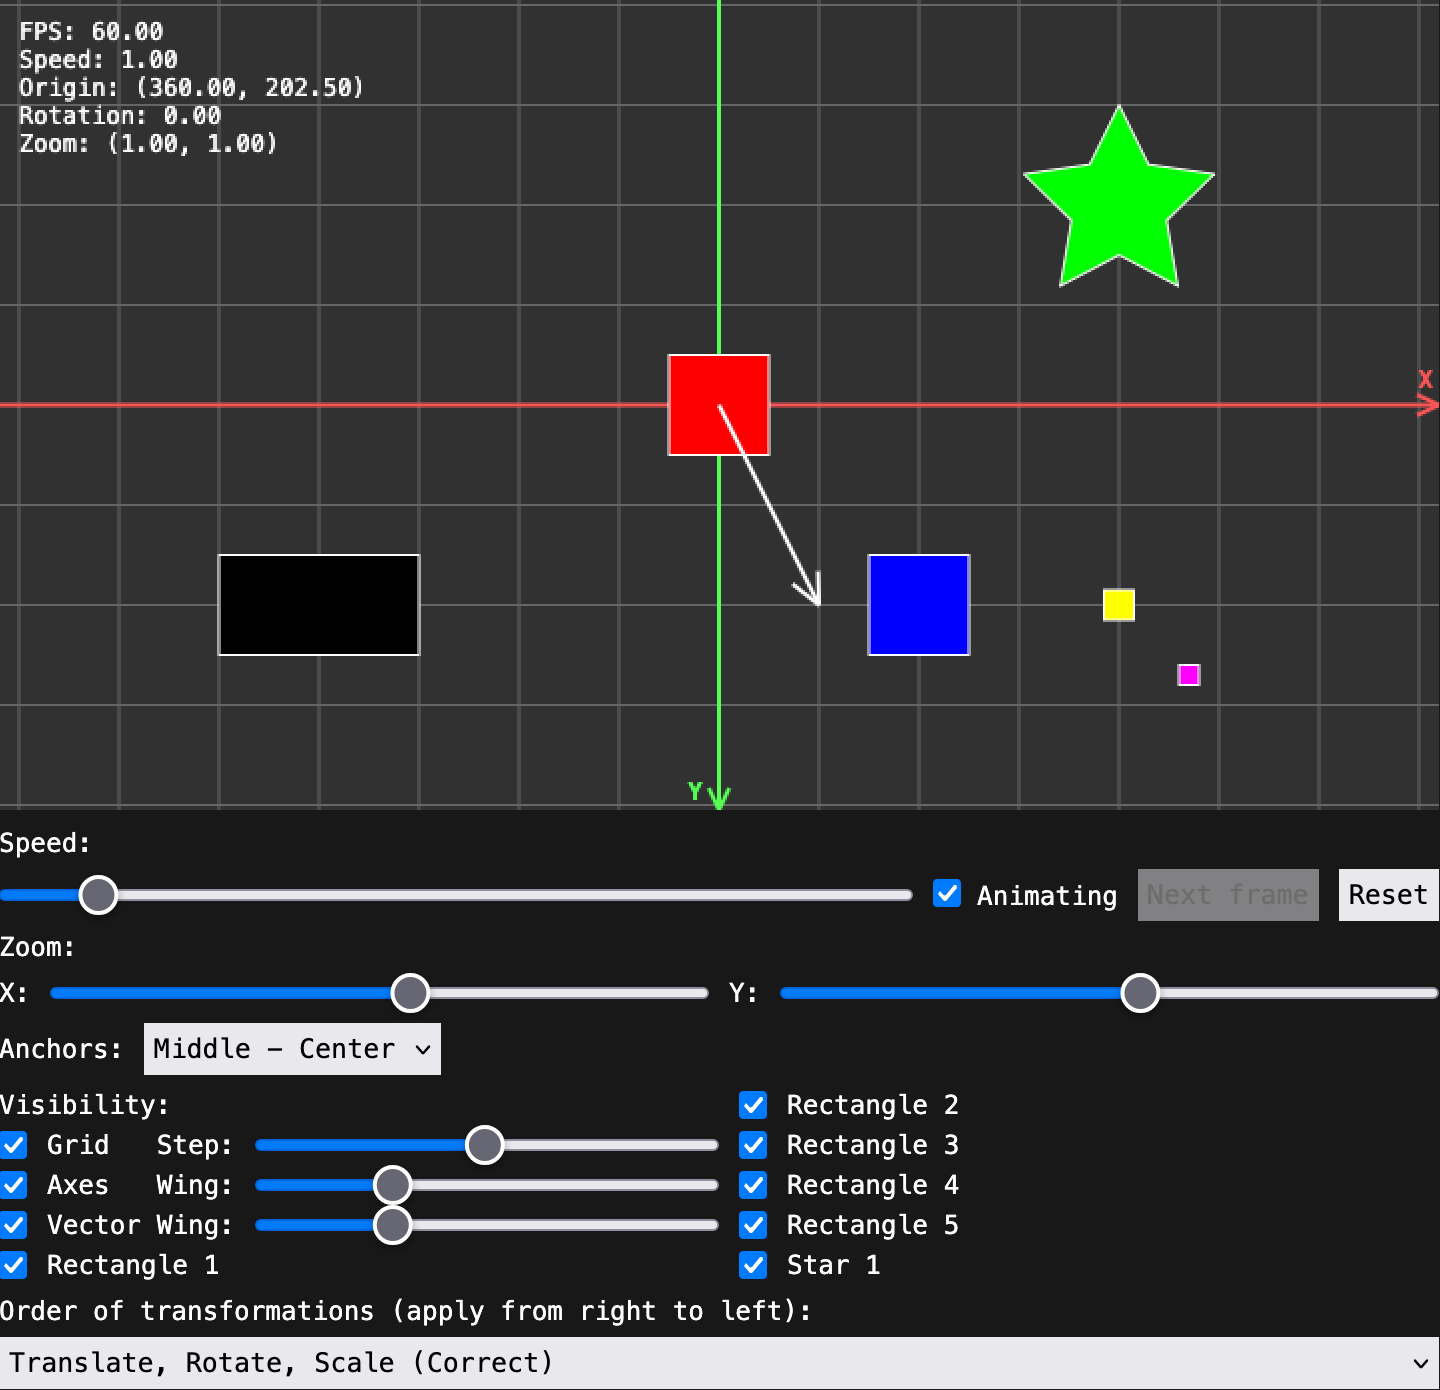
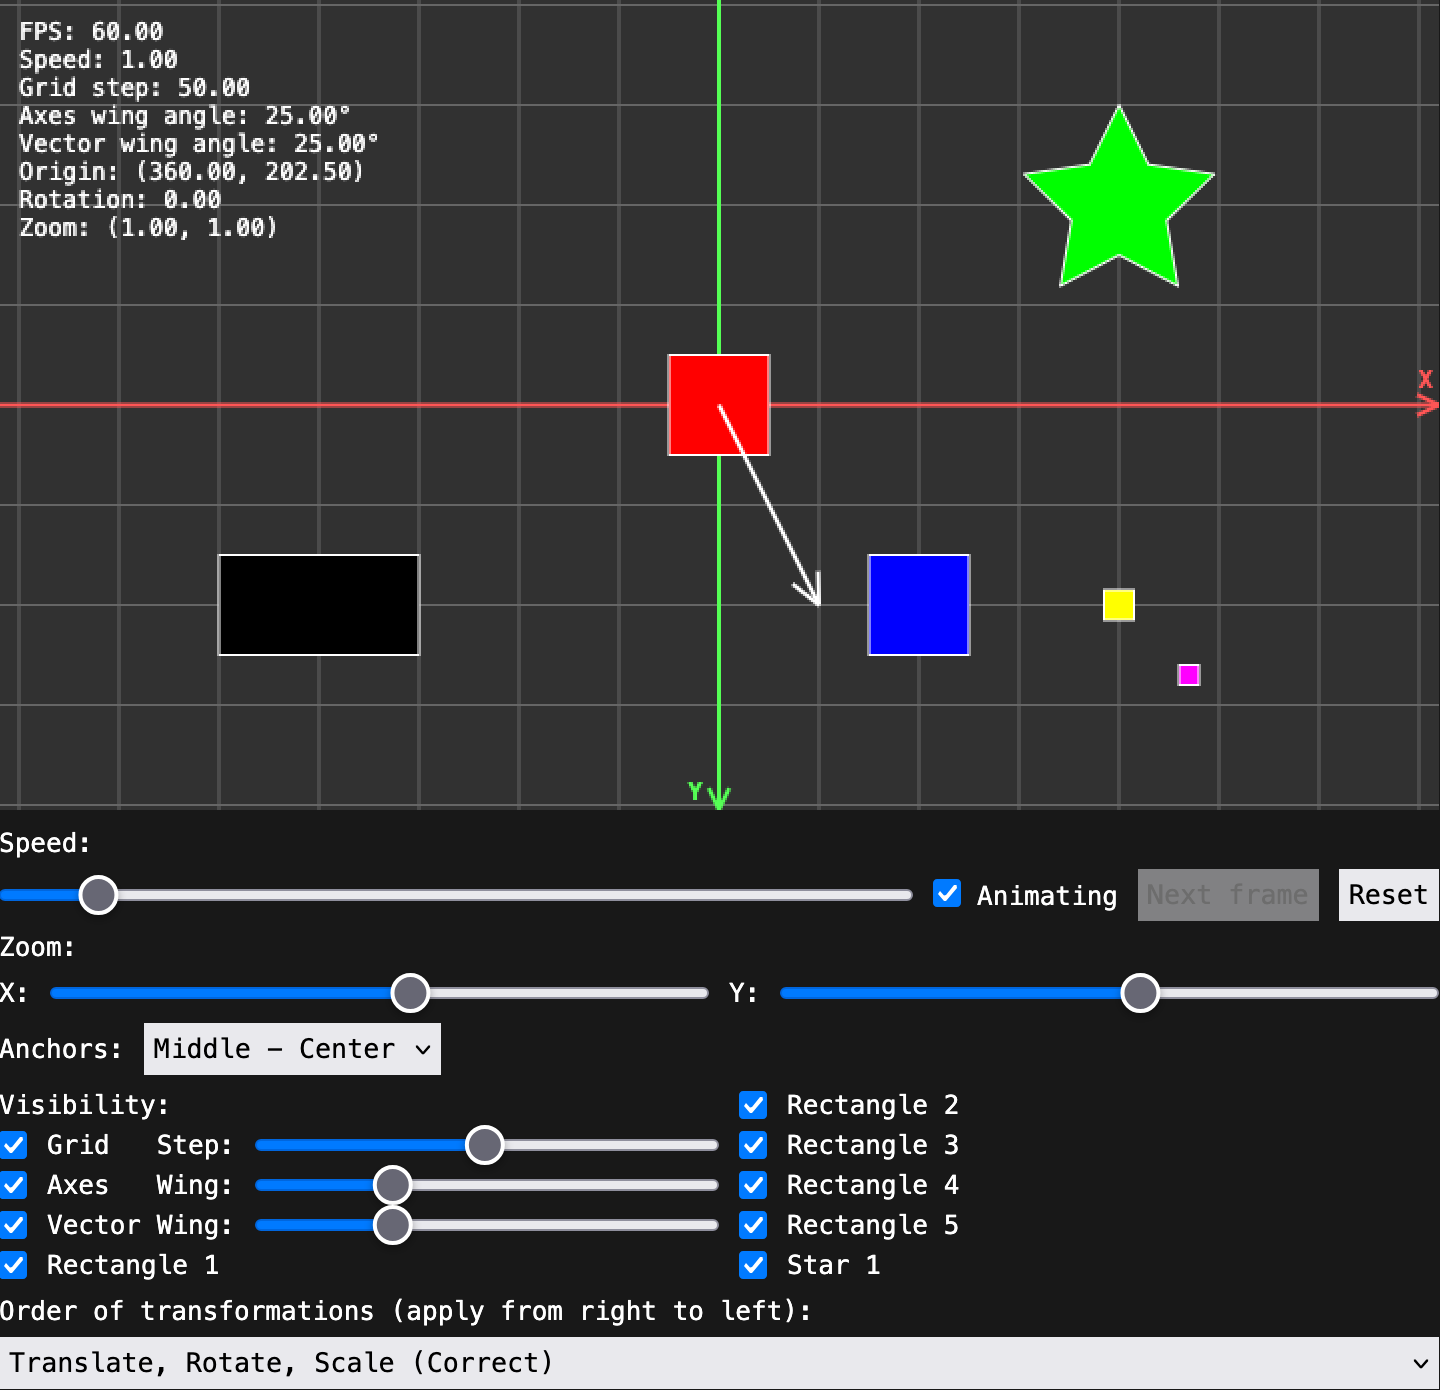
Better log in canvas

Changed region(s): [[0.0, 0.0309, 0.25, 0.1856], [0.1562, 0.1547, 0.1875, 0.1856]]

diff --git a/js/lib/context.js b/js/lib/context.js
@@ -923,14 +923,33 @@ class Context {
     this.#ctx.stroke();
   }
 
-  drawInfo(speed, fps) {
+  drawInfo(fps, speed, gridStep, axesWing, vectorWing) {
     this.#ctx.font = `${FONT_SIZE}px monospace`;
     this.#ctx.fillStyle = '#ffffff';
 
-    this.#ctx.fillText(`FPS: ${fps.toFixed(2)}`, 10, 20);
-    this.#ctx.fillText(`Speed: ${speed.toFixed(2)}`, 10, 20 + FONT_SIZE + LINE_GAP);
-    this.#ctx.fillText(`Origin: (${this.#origin.x.toFixed(2)}, ${this.#origin.y.toFixed(2)})`, 10, 20 + (FONT_SIZE + LINE_GAP) * 2);
-    this.#ctx.fillText(`Rotation: ${this.#rotation.toFixed(2)}`, 10, 20 + (FONT_SIZE + LINE_GAP) * 3);
-    this.#ctx.fillText(`Zoom: (${this.#zoom.x.toFixed(2)}, ${this.#zoom.y.toFixed(2)})`, 10, 20 + (FONT_SIZE + LINE_GAP) * 4);
+    const texts = [
+      `FPS: ${fps.toFixed(2)}`,
+      `Speed: ${speed.toFixed(2)}`,
+      isValidNumber(gridStep) === true ? `Grid step: ${gridStep.toFixed(2)}` : null,
+      isValidNumber(axesWing) === true ? `Axes wing angle: ${axesWing.toFixed(2)}°` : null,
+      isValidNumber(vectorWing) === true ? `Vector wing angle: ${vectorWing.toFixed(2)}°` : null,
+      `Origin: (${this.#origin.x.toFixed(2)}, ${this.#origin.y.toFixed(2)})`,
+      `Rotation: ${this.#rotation.toFixed(2)}`,
+      `Zoom: (${this.#zoom.x.toFixed(2)}, ${this.#zoom.y.toFixed(2)})`
+    ];
+
+    let line = 0;
+
+    for (let i = 0; i < texts.length; ++i) {
+      const text = texts[i];
+
+      if (typeof text !== 'string') {
+        continue;
+      }
+
+      this.#ctx.fillText(texts[i], 10, 20 + (FONT_SIZE + LINE_GAP) * line);
+
+      ++line;
+    }
   }
 }

diff --git a/js/main.js b/js/main.js
@@ -130,7 +130,13 @@ function drawFrame() {
       ctx.drawVector(vector1, Number(vectorWing.value));
     }
 
-    ctx.drawInfo(speedMultiplier, fps);
+    ctx.drawInfo(
+      fps,
+      speedMultiplier,
+      gridCheckbox.checked === true ? Number(gridStep.value) : null,
+      axesCheckbox.checked === true ? Number(axesWing.value) : null,
+      vectorCheckbox.checked === true ? Number(vectorWing.value) : null
+    );
   ctx.drawEnd();
 }
 
